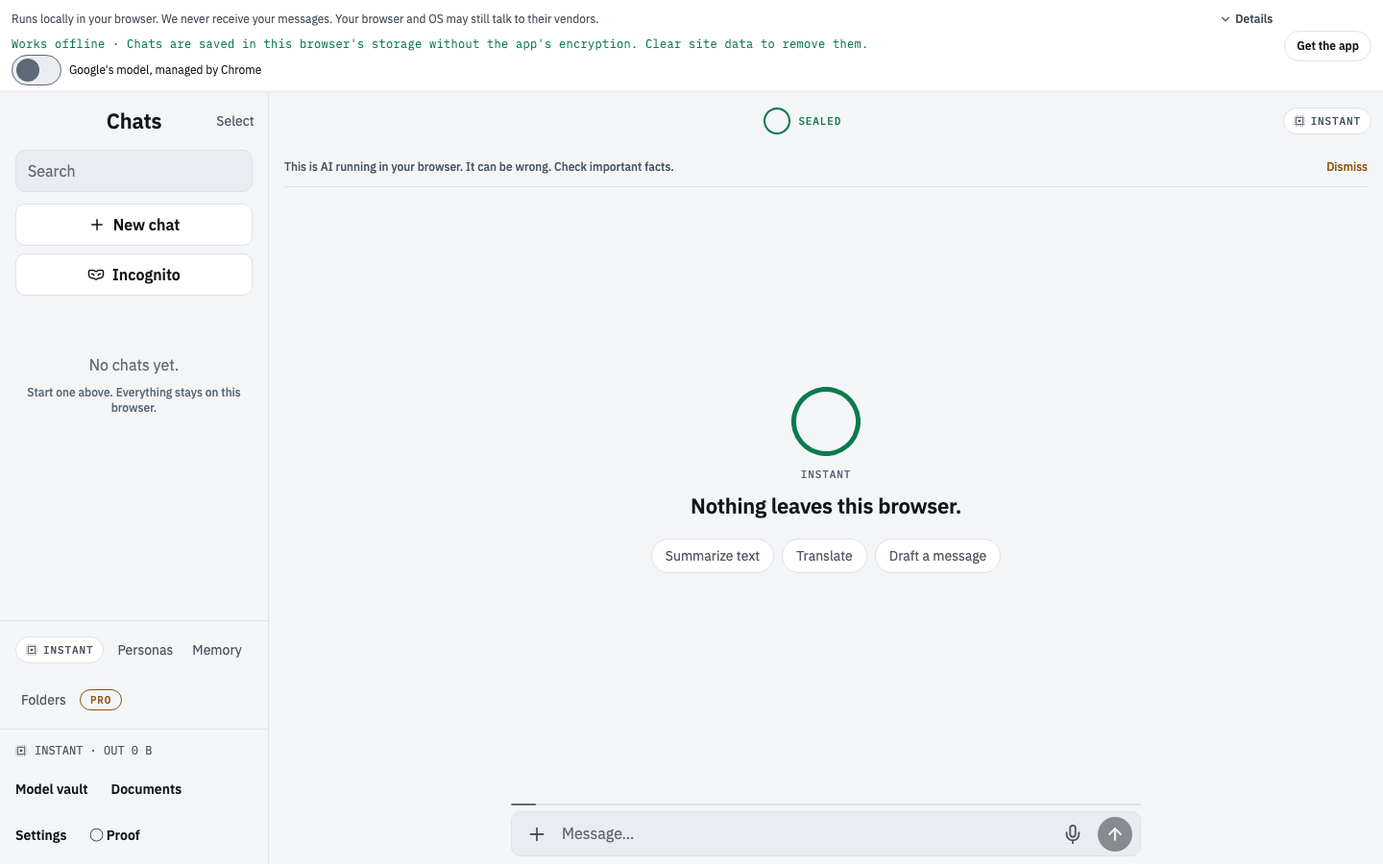
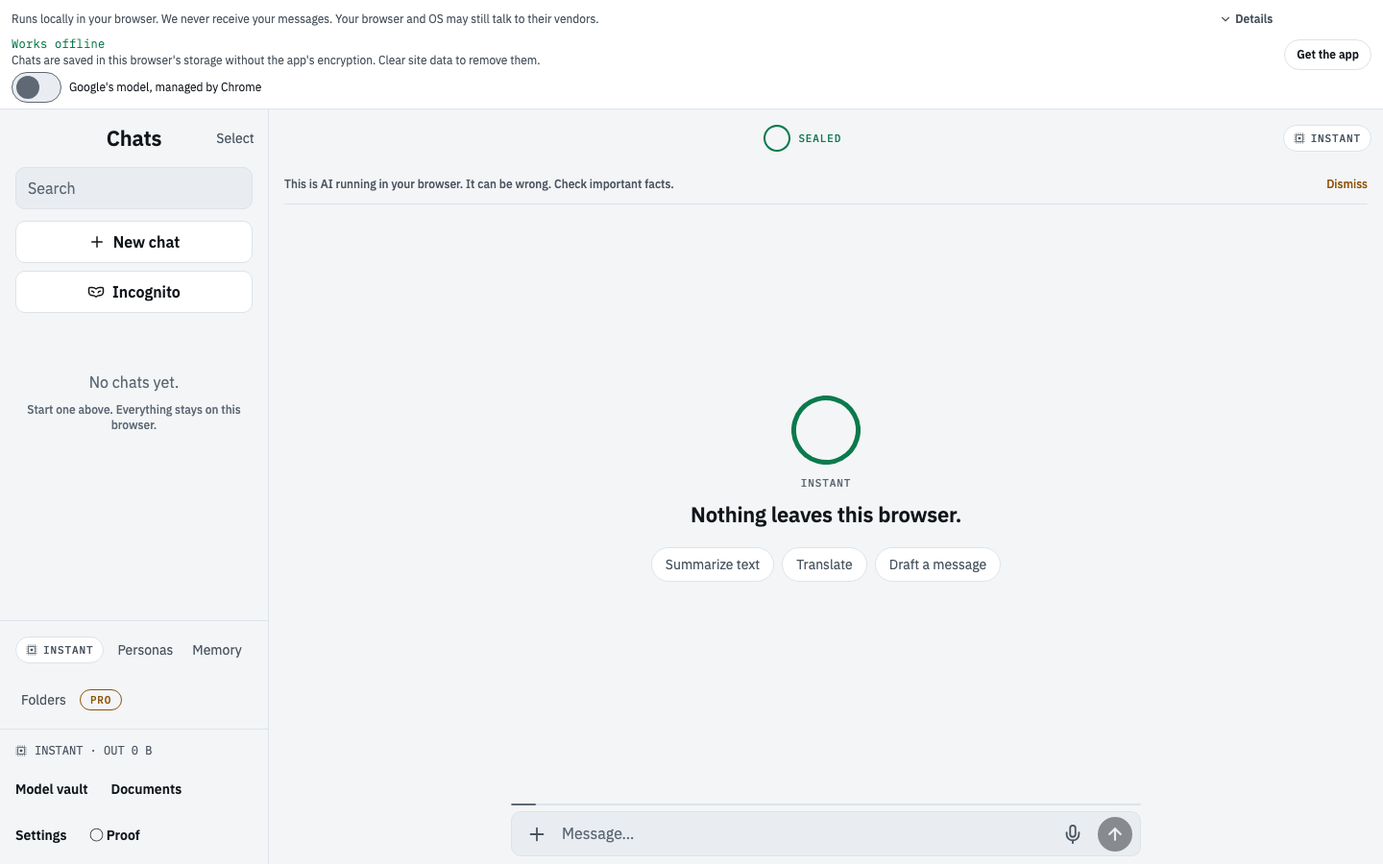
round 50 follow-up: split the strip's sealed mono line, and put the measurements back in the repo (F239)
fix-design read §9.2/§9.3 against the disclosure F226 added and was right: the offline line was one mono Text that
turned theme.sealed when the cache was ready and carried the storage caveat in the same run — a mono paragraph, and
the sealed green standing for something that is not a seal. web-offline-state now keeps the mono and the green for
the state word alone; web-storage-notice is sans body in theme.text2. Two guards, watched failing against the
pre-split source (guard-red-strip-typography.txt).

The measurement files cited by F225, F227 and F234 were .log, and .gitignore line 8 ignores *.log — so they were
never in the repo and went with the first worktree. Regenerated as .txt against the merged build and every citation
repointed. They carry the proof the review's own screenshots could not: at 390 the compare header sits at y 125 with
sticky and y -168 with position forced to static, and at 1440 the table fits the viewport once scrolled, so the
review's 1440 claim rested on a scroll that never took.

Round 48 landed fix-copy's sentence-case string, so item 7 is now whole: the Hebrew line reads "Nothing on this
browser is good at Chat in Hebrew. Closest: INSTANT" and is gone for the chat once dismissed. F225, F227 and the
round write-up say so.

Gates: typecheck 0, lint 0, check:store PASS, 1,367 tests (core 726, mobile 611, ui 13, i18n 17), web:build +
web:smoke PASS, site check 13 pages.

Claude-Session: https://claude.ai/code/session_01FxYNpoNdPEMn53C3TEZdMz

diff --git a/apps/mobile/test/mosheai-r50.test.ts b/apps/mobile/test/mosheai-r50.test.ts
@@ -36,7 +36,19 @@ describe("item 6 · one line before the first word, not five", () => {
     expect(src).toContain("const [open, setOpen] = useState(false);");
   });
   it("the offline line, the storage notice and the engine switch live behind the disclosure", () => {
-    for (const inside of ['testID="web-offline-state"', 't("webStorageNotice")', 'testID="engine-switch"', 't("web.unknownMemory")']) expect(detail, inside).toContain(inside);
+    for (const inside of ['testID="web-offline-state"', 'testID="web-storage-notice"', 't("webStorageNotice")', 'testID="engine-switch"', 't("web.unknownMemory")']) expect(detail, inside).toContain(inside);
+  });
+  /* §9.2/§9.3 (fix-design): mono and the sealed green are for the state word, not for a sentence about storage. */
+  it("sets the storage caveat as body text, and keeps mono and sealed for the state word alone", () => {
+    const offline = detail.slice(detail.indexOf('testID="web-offline-state"'), detail.indexOf('testID="web-storage-notice"'));
+    expect(offline).toContain("styles.mono");
+    expect(offline).toContain("theme.sealed");
+    expect(offline).not.toContain("webStorageNotice");
+    const caveat = detail.slice(detail.indexOf('testID="web-storage-notice"'), detail.indexOf('chromePromptApi'));
+    expect(caveat).toContain("styles.caption");
+    expect(caveat).toContain("theme.text2");
+    expect(caveat).not.toContain("styles.mono");
+    expect(caveat).not.toContain("theme.sealed");
   });
   /* A phone reader must not have to open a disclosure to learn the browser runs Instant only. */
   it("keeps the phone door out in the open", () => {

diff --git a/apps/mobile/src/web/WebShell.tsx b/apps/mobile/src/web/WebShell.tsx
@@ -79,9 +79,11 @@ function Strip({ boot, theme, offline }: { boot: WebBoot; theme: Theme; offline:
         {open ? (
           <View testID="web-strip-detail" style={styles.stripDetail}>
             {boot.gate.ramGB === null && !phone ? <Text style={[styles.caption, { color: theme.text3 }]}>{t("web.unknownMemory")}</Text> : null}
+            {/* §9.2/§9.3: mono and the sealed green belong to the state word alone; the caveat is a sentence, so it is body text. */}
             <Text testID="web-offline-state" style={[styles.mono, { color: offline === "ready" ? theme.sealed : theme.text3 }]}>
               {t(offline === "ready" ? "web.offlineReady" : offline === "installing" ? "web.offlinePreparing" : "web.offlineUnavailable")}
-              {" · "}
+            </Text>
+            <Text testID="web-storage-notice" style={[styles.caption, { color: theme.text2 }]}>
               {t("webStorageNotice")}
             </Text>
             {boot.chromePromptApi ? (

diff --git a/docs/qa/qa-run-2026-09-11.md b/docs/qa/qa-run-2026-09-11.md
@@ -1157,17 +1157,18 @@ to 95 px on a second line. `docs/qa/acceptance/web/a1-onboarding.json`, `a5-ui.j
 | F257 | High (security) | Licence · `apps/mobile/src/licence/devFlags.ts`, `buildKind.ts`, `apps/mobile/app.config.ts` — security review S5 | **A stray environment variable could put sandbox purchases into a store build.** `ALLOW_TEST_PURCHASES` was `EXPO_PUBLIC_ALLOW_TEST_PURCHASES === "1" \|\| __DEV__` and `devBuild()` was `__DEV__ \|\| EXPO_PUBLIC_DEV_MODEL_HOST !== undefined` — neither gated on `__DEV__` (unlike `DEV_TIER` two lines below, which is). Metro inlines every `EXPO_PUBLIC_*` at bundle time, so one leftover `export` in the building shell ships a release bundle that verifies Apple sandbox and `android.test.*` proofs: a free Pro licence for anyone who can produce one. | **Fixed** (round 47b, `fix-tech-b`). The decision moved to `buildKind.ts` and now rests on `extra.devVariant`, which `app.config.ts` bakes from `APP_VARIANT` while the config is evaluated: `allowsTestPurchases = devBundle \|\| (devVariant && flag)` and `isDevBuild = devBundle \|\| (devVariant && devModelHost)`. A store bundle carries `devVariant: false` and no variable set afterwards can change it; an `APP_VARIANT=development` that would flip it also declares the INTERNET permission, which `scripts/check-android-permissions.sh` refuses on a release manifest, so it cannot pass quietly either. `Constants.expoConfig` missing at all reads as "not a dev variant", so the flag fails closed. **The QA harness still works:** the Release device build of `docs/qa/purchases-run-2026-09-11.md` (`APP_VARIANT=development`, `EXPO_PUBLIC_ALLOW_TEST_PURCHASES=1`) is exactly the case that stays allowed. |
 | F258 | Medium (security) | Release · `scripts/check-store-env.sh`, `scripts/dev-switches.txt` | **The gate written to catch exactly that was wired to nothing.** `check-store-env.sh` has refused a store build with any `EXPO_PUBLIC_*` dev switch set since round 9, but `git grep check-store-env` found it only in README and QA prose: `package.json`'s `check:store` runs `docs/store/scripts/check-store-copy.mjs`, a different check, and no build path ever called the script. | **Fixed.** The switch list moved out of the script into `scripts/dev-switches.txt`, and both gates read that one file. The guard runs the real script once per switch on the list and asserts exit 1 with the variable named in the output, plus a clean shell passing — so a switch added to the list is covered the moment it is added, and one removed from the script's reach fails the run. |
 | F259 | Medium (security) | Release · `apps/mobile/app.config.ts` | The same hole from the build side: **nothing refused the build itself**, so a store bundle could be produced with a dev switch inlined into it and nobody would know until the binary was in review. | **Fixed.** `app.config.ts` — the one file every build path evaluates (`expo prebuild`, `expo export`, the Metro step of a release gradle or Xcode build) — throws when a non-development build is configured while any switch on `scripts/dev-switches.txt` is set, naming the offenders. The guard imports the config per case with the environment set, so the throw is the behaviour under test rather than a source string, and asserts the complement: the development variant may carry the switches, and a clean store build gets `extra.devVariant: false`. `pn web:build` runs the config with the refusal in place and is green. |
-| F225 | Medium | S60 paywall (`apps/mobile/src/screens/paywall/CompareTable.tsx`) | **The comparison table lost its column headers as soon as you scrolled.** 18 rows, and `FREE / PRO / WORK` was a plain first row: at 390 the reader reached *Client vaults with passcodes* with three unlabelled tick columns and no way to tell which is which. This is the screen that answers "what am I paying for". | **Fixed** (round 50, branch `fix-mosheai`). The header row is `testID="compare-head"` and carries `STICKY_HEAD` — `position: sticky, top: 0` under `Platform.OS === "web"`, which is the platform whose style engine has it — plus its own `surface1` background so the rows pass under it rather than through it. Measured, not eyeballed: at 390, scrolled to the end of the table, the header sits at the top of the card and *Client vaults* is labelled (`docs/qa/fix-mosheai/after/05-paywall-compare-scrolled-390.png`); with `position` forced back to `static` in the same session the header is gone and the three columns are bare again (`05-paywall-compare-scrolled-nosticky-390.png`), which is the review's own screenshot. Geometry in `docs/qa/fix-mosheai/walk-390.log`. Guard in `apps/mobile/test/mosheai-r50.test.ts`, watched red: `docs/qa/fix-mosheai/guard-red-r50.txt`. |
-| F226 | Medium | Web strip (`apps/mobile/src/web/WebShell.tsx`), `scripts/web-smoke.mjs` | **Five notices stacked above an empty chat before the first word.** At 1440: "Runs locally in your browser…", the mono "Works offline · Chats are saved in this browser's storage…", the "Google's model, managed by Chrome" toggle, "Get the app", then "This is AI running in your browser." Friction and repeated notices get rejected however true each one is. | **Fixed** (round 50). The strip now shows one line — `web.notice` — plus a `Details` disclosure (`web-strip-details`, new key `web.details` in all 8 locales and pseudo) that folds the offline/storage mono line, the unknown-memory line and the Chrome engine switch. Two things deliberately stayed out: the **phone door**, because a phone reader must not open a disclosure to learn the browser runs Instant only, and the **AI-can-be-wrong strip**, which is the one with a Dismiss. Strip height at 1440 fell from 79 px to 44 px (`before/06-17-chat-empty-1440.png` vs `after/06-17-chat-empty-1440.png`); the open state is `after/06-chat-strip-open-1440.png`. `web-smoke` was taught to open the disclosure before reading `web-offline-state` and still passes end to end. |
-| F227 | Medium | `apps/mobile/src/screens/Chat.tsx` | **We stopped blocking Hebrew and went on discouraging it.** Every Hebrew turn drew a permanent all-caps mono line in the chat header — `NOTHING ON THIS BROWSER IS GOOD AT CHAT IN HEBREW · CLOSEST: INSTANT`. The rating behind it is honest (`docs/models/model-fit.md`, 132 generations); the shouting, on every turn, with no way out, was not. | **Fixed** (round 50). The verdict now goes through the **same** machinery as the §7.8 advice card rather than a parallel one: a key `none:<use>:<language>`, `adviceToShow(adviceChat, …)` for once-per-chat memory, and `snoozeAdvice` to put it on the chat row so it survives a relaunch, plus a local key for a chat that has not been saved yet. It renders as an ordinary notice row with a **Dismiss**, in `type.caption` instead of `type.monoLabel`, and the `use` and `language` interpolations are no longer `.toUpperCase()`d. The remaining all-caps is inside the string `models.recommendedNone` itself, which `review-copy` item 20 owns — left to that stream on purpose. Evidence `after/16-07-hebrew-answer-1440.png`, `after/07-hebrew-dismissed-1440.png`, geometry in `hebrew-1440.log`. |
+| F225 | Medium | S60 paywall (`apps/mobile/src/screens/paywall/CompareTable.tsx`) | **The comparison table lost its column headers as soon as you scrolled.** 18 rows, and `FREE / PRO / WORK` was a plain first row: at 390 the reader reached *Client vaults with passcodes* with three unlabelled tick columns and no way to tell which is which. This is the screen that answers "what am I paying for". | **Fixed** (round 50, branch `fix-mosheai`). The header row is `testID="compare-head"` and carries `STICKY_HEAD` — `position: sticky, top: 0` under `Platform.OS === "web"`, which is the platform whose style engine has it — plus its own `surface1` background so the rows pass under it rather than through it. Measured, not eyeballed. At 390, scrolled to the end of the 18 rows, the header is held at **y 125, on screen**, and *Client vaults with passcodes* is labelled; with `position` forced back to `static` in the same session the same header measures **y −168, off screen**, and the three columns are bare again — the review's own screenshot, reproduced on demand (`docs/qa/fix-mosheai/walk-390.txt`, shots `after/05-paywall-compare-scrolled-390.png` and `-nosticky-390.png`). At 1440 the whole table fits the viewport once scrolled, so the header never leaves and the sticky changes nothing there; the review's 1440 claim came from a scroll that did not take (its two "scrolled" shots are byte-identical). `walk-1440.txt`. Guard in `apps/mobile/test/mosheai-r50.test.ts`, watched red: `docs/qa/fix-mosheai/guard-red-r50.txt`. |
+| F226 | Medium | Web strip (`apps/mobile/src/web/WebShell.tsx`), `scripts/web-smoke.mjs` | **Five notices stacked above an empty chat before the first word.** At 1440: "Runs locally in your browser…", the mono "Works offline · Chats are saved in this browser's storage…", the "Google's model, managed by Chrome" toggle, "Get the app", then "This is AI running in your browser." Friction and repeated notices get rejected however true each one is. | **Fixed** (round 50). The strip now shows one line — `web.notice` — plus a `Details` disclosure (`web-strip-details`, new key `web.details` in all 8 locales and pseudo) that folds the offline/storage mono line, the unknown-memory line and the Chrome engine switch. Two things deliberately stayed out: the **phone door**, because a phone reader must not open a disclosure to learn the browser runs Instant only, and the **AI-can-be-wrong strip**, which is the one with a Dismiss. Strip height at 1440 fell from 79 px to 44 px (`before/06-17-chat-empty-1440.png` vs `after/06-17-chat-empty-1440.png`); the open state is `after/06-chat-strip-open-1440.png`. `web-smoke` was taught to open the disclosure before reading `web-offline-state` and still passes end to end. **Second pass, at `fix-design`'s request (§9.2/§9.3):** the offline line was one mono `Text` that turned `theme.sealed` when ready, storage caveat included — a mono paragraph, and the sealed green used for something that is not a seal. It is now two: `web-offline-state` keeps the mono and the sealed colour for the state word alone, and the caveat is `web-storage-notice`, sans body in `theme.text2`. Measured on the built app at both widths: "Works offline" IBMPlexMono in the sealed green `rgb(11, 122, 76)`, the caveat IBMPlexSans in `rgb(74, 85, 96)` (`docs/qa/fix-mosheai/strip-1440.txt`, `strip-390.txt`, shots `after/06-chat-strip-open-*.png`). Guard watched red: `docs/qa/fix-mosheai/guard-red-strip-typography.txt`. |
+| F227 | Medium | `apps/mobile/src/screens/Chat.tsx` | **We stopped blocking Hebrew and went on discouraging it.** Every Hebrew turn drew a permanent all-caps mono line in the chat header — `NOTHING ON THIS BROWSER IS GOOD AT CHAT IN HEBREW · CLOSEST: INSTANT`. The rating behind it is honest (`docs/models/model-fit.md`, 132 generations); the shouting, on every turn, with no way out, was not. | **Fixed** (round 50). The verdict now goes through the **same** machinery as the §7.8 advice card rather than a parallel one: a key `none:<use>:<language>`, `adviceToShow(adviceChat, …)` for once-per-chat memory, and `snoozeAdvice` to put it on the chat row so it survives a relaunch, plus a local key for a chat that has not been saved yet. It renders as an ordinary notice row with a **Dismiss**, in `type.caption` instead of `type.monoLabel`, and the `use` and `language` interpolations are no longer `.toUpperCase()`d. The string's own capitals were `review-copy` item 20 and were left to that stream; round 48 landed them, so after merging `origin/main` the line reads in full sentence case on the built app: **"Nothing on this browser is good at Chat in Hebrew. Closest: INSTANT"** with a Dismiss (`docs/qa/fix-mosheai/hebrew-1440.txt`, `after/16-07-hebrew-answer-1440.png`). Dismissed, it is gone for the chat: the same measurement after the tap reports `none: null` (`after/07-hebrew-dismissed-1440.png`). |
 | F228 | Medium | `packages/i18n/locales/*.json`, `apps/mobile/src/screens/paywall/WebStoreBlock.tsx` | **The app promised Windows and macOS while the site said they are not here yet.** `paywall.noStore` read "Pro is sold in the iOS, Android, Windows and macOS apps" and the web paywall drew a third **Desktop** button, while the site's Get section says "iPhone and Android first. Windows and macOS after them" and offers no desktop download anywhere. Two surfaces of one product contradicting each other on what you can buy. | **Fixed** (round 50). `paywall.noStore` now reads "Pro is sold in the iOS and Android apps. The browser version stays free." in all 8 locales and pseudo; the Desktop button is gone and its dead string `paywall.web.desktop` was deleted from all nine files. Guards: `packages/i18n/test/locales.test.ts` fails if any locale's `paywall.noStore` names a desktop OS or if the button's key comes back, and `apps/mobile/test/premium-entry.test.ts` now asserts the two-store array. Both watched red (`guard-red-r50.txt`). |
 | F229 | Low | `packages/i18n/locales/*.json` | **An HTML file was refused with the word "spreadsheet".** `paywall.why.office` (and its byte-identical twin `paywall.why.officeIngest`) read "You opened a spreadsheet. Pro for Work reads Excel and HTML files." Attach a `.html` and the first sentence is simply false. `docs/qa/acceptance/README.md` found this and left it "to whoever owns the Work copy"; nobody picked it up. | **Fixed** (round 50). Both keys now read "You opened a spreadsheet or a web page. Pro for Work reads Excel and HTML files." in all 8 locales and pseudo. `review-copy` item 19 proposes collapsing the two duplicate keys into one; that is a separate edit and both copies carry the same corrected sentence until it lands. |
 | F230 | Low | `packages/core/src/licence/gates.ts` | **A dead gate that the F42 guard could not see.** `UNBUILT_FEATURES` carried `professionPacks` while the gate the code actually asks is `templates` (`apps/mobile/src/work/hooks.ts`, `TemplatesSheet.tsx`), and the bullet that sells the feature is `paywall.work.packs`. Two keys for one shipped capability — and the "a gate nobody asks is the shape of F42" guard was satisfied by the dead one, so it proved nothing about the live one. | **Fixed** (round 50). `professionPacks` is deleted from `FEATURES` and from `UNBUILT_FEATURES`; `templates` is the single gate, and the comment above `PAYWALL_BULLETS` now says so. A new case in `packages/core/test/licence-gates.test.ts` fails if the duplicate returns to either list. `gates-wired.test.ts` and `licence-compare.test.ts` stay green with one fewer key. |
 | F231 | Low | `packages/core/src/licence/compare.ts`, `screens/paywall/CompareTable.tsx` | **The compare table promised OCR inside a tier that has no OCR.** *Text from scans and photos* shows ✓ for Pro, rendered inside the browser app, where `apps/mobile/src/documents/extract.ts` says in as many words "No OCR in the browser tier yet" and `nativeOcr()` returns `null`. The page does say Pro lives in the app, so it is not a lie; it is the one row a browser reader cannot act on. | **Fixed** (round 50). `COMPARE_APP_ONLY` in core names the rows whose tick the web build cannot honour (today: `ocr`), the row label carries a `†` on web, and a footnote under the table reads "† Text from scans and photos needs the iOS or Android app." (8 locales + pseudo, key `paywall.compare.appOnly`). The list lives in core beside `COMPARE_ROWS`, so a test can check it names real rows, and nothing is hard-coded in the view. Visible at both widths in `after/05-paywall-compare-scrolled-1440.png` and `-390.png`. |
 | F232 | Low | `docs/spec-src/08-screens.html`, `docs/spec-src/13-aso.html`, `docs/inborn-spec.html` | **Rounds 39–41 changed the product and the spec was said to have been skipped.** Checked before fixing: `premium-entry` (b5740e5) and `model-switch` (6dfd94b) **did** touch `docs/spec-src` — S30b, §7.8, §12.3 and S60's pills are already written — so the review's premise held for one round of the three. Round 41 (`site-landing`) shipped the entire website without a spec line, and two real gaps remained: S52 Settings never mentioned the Inborn Pro section round 39 added, and §13.4 still described the old plan (a separate demo origin, a standalone Models page) rather than what `apps/site` ships. | **Fixed** (round 50). S52 gains the Pro entry as its first section (tier badge, per-tier subline, opens S60 with no reason), and §13.4 is rewritten against `build.mjs` / `check.mjs` / `_headers`: the hero composer's `?q=` handoff, the enforced `script-src 'none'`, the six structured-data types, the canonical split, the crawler list, sitemap and `llms.txt`, the legal-texts-from-site mechanism and the public repo link. `python3 docs/build.py` rebuilt `docs/inborn-spec.html`; log and greps in `docs/qa/fix-mosheai/spec/`. |
 | F233 | Low | `docs/models/model-fit.md`, `packages/core/src/catalog/manifest.json`, `packages/core/test/*` | **Fast's Arabic rating was the least certain number in the map and was sold as `native`.** `ar` was upgraded to `native` on a single 2/2/3 run whose prose scored 2, and the doc itself writes that this tier is the least certain in the map. Every other `native` has more behind it, and an Arabic speaker reads `native` on the model card. | **Fixed** (round 50). `fit.languages.ar` for `fast` is `good` in `manifest.json` and in `model-fit.md`, and the catalog is re-signed (`node scripts/sign-catalog.mjs --check` → "manifest signature OK", manifest v4). The downgrade moved three recommendations, all of them checked and all of them right: Arabic **code** now recommends Sharp rather than Fast (both are `good` at Arabic, so the use breaks the tie and Sharp is `good` at code where Fast is `weak`); a Phi user **writing** Arabic is now sent to Sharp for the same reason; and the Instant→Fast card now says `basic → good` instead of `basic → native`. `catalog-fit.test.ts` and `catalog-recommend.test.ts` updated to those values with the reason on the line. |
-| F234 | Low | `apps/mobile/src/components/chat/AssistantMessage.tsx`, `Ledger.tsx` | **The Hebrew answer block was not mirrored.** The body right-aligned with its own direction, but `INSTANT · ON-DEVICE AI` and the `LEDGER` disclosure stayed hard left, roughly 600 px away from the text they belong to. | **Fixed** (round 50). `AssistantMessage` derives one flag from the direction it already computes (`const rtl = dir === "rtl"`) and mirrors the label, the reasoning disclosure and its quote rail, the error and family-safe lines and the stopped/loop row; it passes `rtl` to `Ledger`, which mirrors its own toggle and every receipt row. Only labels move: the Markdown body and the quote rail keep the full column, so nothing re-wraps. Evidence `after/16-07-hebrew-answer-1440.png` against `before/16-hebrew-answer-1440.png`, geometry in `hebrew-1440.log`. |
+| F234 | Low | `apps/mobile/src/components/chat/AssistantMessage.tsx`, `Ledger.tsx` | **The Hebrew answer block was not mirrored.** The body right-aligned with its own direction, but `INSTANT · ON-DEVICE AI` and the `LEDGER` disclosure stayed hard left, roughly 600 px away from the text they belong to. | **Fixed** (round 50). `AssistantMessage` derives one flag from the direction it already computes (`const rtl = dir === "rtl"`) and mirrors the label, the reasoning disclosure and its quote rail, the error and family-safe lines and the stopped/loop row; it passes `rtl` to `Ledger`, which mirrors its own toggle and every receipt row. Only labels move: the Markdown body and the quote rail keep the full column, so nothing re-wraps. Evidence `after/16-07-hebrew-answer-1440.png` against `before/16-hebrew-answer-1440.png`, geometry in `hebrew-1440.txt`. |
 | F235 | Low | `apps/mobile/src/screens/Chat.tsx`, `screens/Work/AuditLog.tsx` | **Desktop height was still phone rhythm on the low-traffic screens.** An empty chat at 1440 put the seal and "Nothing leaves this browser." in the bottom third with ~380 px of nothing above, because the list hugs the bottom so a conversation can grow upward — correct with messages, wrong with none. `/work/audit` at 1440 was one small card pinned to the top of a 900 px window, and with no vault yet it printed `CHOOSE A VAULT` over nothing, which reads as a dead label rather than a choice. | **Fixed** (round 50). The chat list adds `styles.listEmpty` (`justifyContent: center`) only while `rows.length` is 0; the seal moved from y≈630 to y≈414 at 1440 (`before/` vs `after/06-17-chat-empty-1440.png`). `AuditLog` passes `card={!picked}` to `Screen`, reusing the centred-card mechanism §8.9 already has, and renders the picker only when there is something to pick (`after/17-work-audit-1440.png` against `before/17-work-audit-1440.png`). |
 | F236 | Low | `apps/site/src/pages/index.html`, `proof.html`, `site.css` | **The site's proof strip was decoration.** `OUT 0 B · CONNECTIONS 0 · SEALED · ON-DEVICE` is static HTML on a page `check.mjs` certifies has **no scripts**, while `docs/qa/acceptance/README.md` called it "a live … strip". On a product whose pitch is "proof, not promise", a readout that looks live and is not is the first thing a hostile reviewer screenshots. | **Fixed** (round 50). Both pages carry the same readout under a caption — "What the app's own Proof screen shows on your device — a picture, not a live reading of this page." — and the `aria-label` says the same. No script was added; `pnpm --filter @inborn/site check` still reports "12 pages: no scripts, no external assets, no dead links, CSP present". Before/after at 390 and 1440 in `docs/qa/fix-mosheai/site/`. |
 | F237 | Low | `apps/site/build.mjs`, `apps/site/check.mjs`, `packages/core/src/site/origins.json` | **The site's default canonical host was the staging host.** Every `rel=canonical`, `og:url`, sitemap `<loc>` and the robots `Sitemap:` line built without `SITE_ORIGIN` read `https://inborn-site.pages.dev`. Production is correct because the deploy sets `SITE_ORIGIN`, so this was one forgotten variable away from shipping the staging host to search engines. **The review's framing is half wrong and worth recording:** `apps/site/dist` is **not** committed — it is in `.gitignore` and `git log --all -- apps/site/dist` is empty — so "stop committing dist" was already true and the risk was only the default. | **Fixed, and then superseded on the way in.** This branch changed the literal default in `build.mjs` and `check.mjs` to `https://inbornapp.com`: a default build went from 261 occurrences of the staging host to **0** and 313 of `inbornapp.com`, every canonical/og:url/sitemap/robots line included (`docs/qa/fix-mosheai/site/item20-before.txt`, `item20-after.txt`). Merging `origin/main` brought round 46's better answer to the same problem — `packages/core/src/site/origins.json`, one file the build, the check and the deploy all read, whose `site` is already `https://inbornapp.com` — so **main's mechanism is what shipped** and the literals were dropped. The finding is closed either way; recorded so nobody re-adds a second default. |
 | F238 | **High** | 44 tracked files under `docs/qa/`, `packages/core/test/no-device-ids.test.ts` | **A public repo carried Moshe's personal device identifiers and an App Store Connect key id.** `moshecohen90/inborn` is public. Tracked files held the iPhone 13 Pro UDID in 16 places, the OnePlus 6T adb serial in 41 and `AuthKey_<asc-key-id>` in 8. A UDID is a personal-device identifier and the key id is a free hint for anyone probing our ASC account. | **Fixed at HEAD** (round 50); the history is **not** rewritten and cannot be undone, but it stops growing. All three are replaced by `<iphone-udid>`, `<6t-serial>` and `<asc-key-id>` across `docs/qa/` and `README.md`; no tracked script contained one, so nothing executable changed. The guard is `packages/core/test/no-device-ids.test.ts`: it walks `git ls-files`, skips binaries and files over 2 MB, and fails on any of the three literals, which it assembles from fragments so it does not trip itself. Watched red by writing the raw UDID into a tracked doc: `docs/qa/fix-mosheai/guard-red-device-ids.txt`. |
+| F239 | Low | `apps/mobile/src/web/WebShell.tsx`, `apps/mobile/test/mosheai-r50.test.ts` | **The browser strip broke the type rules the strip itself was meant to serve.** Inside the disclosure F226 added, the offline line was one mono `Text` that turned `theme.sealed` when the cache was ready and carried the storage caveat in the same run: a mono paragraph (§9.2) and the sealed green used for something that is not a seal (§9.3). Raised by `fix-design`. Split in two: `web-offline-state` keeps the mono and the green for the state word alone, `web-storage-notice` is sans body in `theme.text2`. Measured on the built app with the disclosure open at both widths — "Works offline" `IBMPlexMono rgb(11, 122, 76)`, the caveat `IBMPlexSans rgb(74, 85, 96)` (`docs/qa/fix-mosheai/strip-390.txt`, `strip-1440.txt`, shots `after/06-chat-strip-open-390.png` and `-1440.png`). Two guards, both watched failing against the pre-split source (`guard-red-strip-typography.txt`). | Fixed |

diff --git a/README.md b/README.md
@@ -4188,22 +4188,28 @@ there is one branch to land rather than two that touch the same files.
 The 24.9 MosheAI pass raised 20 items. Three of them belong to other streams (the dead call to action on the live
 site and the four dead buy buttons to `cf-token`; the Work tier on hardware and the iPhone use-pass to
 `work-tier-6t` and `ios-qa-bridge`), and item 14 — F161's residual sentence — was not assigned. This round is the
-other fourteen: **F225–F238** in `docs/qa/qa-run-2026-09-11.md`, evidence in `docs/qa/fix-mosheai/`.
+other fourteen: **F225–F239** in `docs/qa/qa-run-2026-09-11.md`, evidence in `docs/qa/fix-mosheai/`.
 
 - **The paywall's comparison table kept its headers (F225).** 18 rows and `FREE / PRO / WORK` was a plain first row,
   so at 390 you reached *Client vaults with passcodes* and three unlabelled tick columns. The header row is sticky
   inside the card on the platform whose style engine has sticky, with its own background so rows pass under it. The
-  complement is what makes this a proof rather than a claim: in the same session, `position` forced back to `static`
-  puts the columns back to bare (`after/05-paywall-compare-scrolled-nosticky-390.png`). On native phones the header
+  complement is what makes this a proof rather than a claim: at 390 the header measures y 125 on screen with sticky
+  and y −168 off screen with `position` forced back to `static` in the same session. At 1440 the table fits the
+  viewport once scrolled, so the sticky changes nothing there and the review's 1440 claim rested on a scroll that
+  never took — its two "scrolled" shots are byte-identical. On native phones the header
   still scrolls — React Native has no `sticky` outside a `ScrollView`'s own `stickyHeaderIndices`, and the paywall's
   children are conditional, so pinning an index there is a separate change. Said plainly rather than implied.
 - **Five notices before the first word became one (F226).** The strip keeps `web.notice` and folds the offline and
   storage line, the unknown-memory line and the Chrome engine switch behind a `Details` disclosure. The phone door
   stayed out — a phone reader must not open a disclosure to learn the browser runs Instant only — and so did the
-  AI-can-be-wrong strip, which is the one with a Dismiss. 79 px of chrome became 44.
+  AI-can-be-wrong strip, which is the one with a Dismiss. 79 px of chrome became 44. A second pass at `fix-design`'s
+  request splits the offline line: §9.2/§9.3 give mono and the sealed green to the state word, so the storage caveat
+  is sans body in `theme.text2` rather than a mono paragraph wearing the seal colour.
 - **Hebrew: we stopped discouraging it too (F227).** The permanent all-caps verdict on every Hebrew turn now runs
   through the **same** once-per-chat memory and chat-row snooze the §7.8 advice card uses, with a Dismiss and in
-  sentence type. The string's own capitals belong to `review-copy` item 20 and were left for that stream.
+  sentence type. The string's own capitals were `review-copy` item 20 and were left for that stream; round 48 landed
+  them, so on the merged build the line reads "Nothing on this browser is good at Chat in Hebrew. Closest: INSTANT"
+  and disappears for the chat when dismissed.
 - **Two surfaces stopped contradicting each other about what you can buy (F228).** The app sold Pro "in the iOS,
   Android, Windows and macOS apps" while the site says Windows and macOS come after them. Eight locales and pseudo
   now name the two stores that exist, and the Desktop button and its string are gone.
@@ -4228,9 +4234,17 @@ other fourteen: **F225–F238** in `docs/qa/qa-run-2026-09-11.md`, evidence in `
   fails on any of the three, and it caught its first real hit immediately: the key id inside the F238 row itself.
 
 Every behaviour fix carries a guard that was watched failing with the fix reverted
-(`docs/qa/fix-mosheai/guard-red-r50.txt`, 11 red; `guard-red-device-ids.txt` for the identifier scan).
+(`docs/qa/fix-mosheai/guard-red-r50.txt`, 11 red; `guard-red-device-ids.txt` for the identifier scan;
+`guard-red-strip-typography.txt` for the two §9.2/§9.3 cases below).
 
-Gates after merging `origin/main` (rounds 46–49): `pn typecheck` 0, `pn lint` 0, `pn check:store` PASS,
-**1,356 tests** (core 726, mobile 600, ui 13, i18n 17), `pn web:build` + `pn web:smoke` PASS — the smoke now opens
+One follow-up landed after the merge, at `fix-design`'s reading of the spec: the strip's offline line was a single
+mono `Text` that turned `theme.sealed` when ready **and** carried the storage caveat inside it, which is a mono
+paragraph (§9.2) and the sealed green standing for something that is not a seal (§9.3). Split: `web-offline-state`
+keeps the mono and the green for the state word alone, `web-storage-notice` is sans body in `theme.text2`. Measured
+open at both widths — "Works offline" `IBMPlexMono rgb(11, 122, 76)`, the caveat `IBMPlexSans rgb(74, 85, 96)`
+(`docs/qa/fix-mosheai/strip-390.txt`, `strip-1440.txt`).
+
+Gates after merging `origin/main` (rounds 46–49, 47b, 51) and that follow-up: `pn typecheck` 0, `pn lint` 0, `pn check:store` PASS,
+**1,367 tests** (core 726, mobile 611, ui 13, i18n 17), `pn web:build` + `pn web:smoke` PASS — the smoke now opens
 the strip's disclosure before reading the offline state — and `pnpm --filter @inborn/site check` "13 pages: no
 scripts, no external assets, no dead links, CSP present".

diff --git a/docs/qa/fix-mosheai/README.md b/docs/qa/fix-mosheai/README.md
@@ -1,11 +1,12 @@
 # fix-mosheai — round 50 evidence (24.9.2026)
 
-Answers the MosheAI review of 24.9. Findings **F225–F238** in `docs/qa/qa-run-2026-09-11.md`; the round write-up is
+Answers the MosheAI review of 24.9. Findings **F225–F239** in `docs/qa/qa-run-2026-09-11.md`; the round write-up is
 `README.md` → "Fixes round 50".
 
 ## How these were taken
 
-`apps/web/dist` built from this branch, served by `node scripts/serve-web.mjs` on port **8933**
+`apps/web/dist` built from this branch, served by `node scripts/serve-web.mjs` on a free local port (**8933**, and
+**8934** for the re-run that produced the `.txt` measurements after the merge)
 (`MODELS_DIR=/Users/moshecohen/dev/inborn/.models`), driven headless with playwright-core on
 `chrome-headless-shell`, viewport height 900, light scheme. The server was killed by its own PID when the pass ended.
 
@@ -29,13 +30,19 @@ here unchanged so the pair is comparable. Their original names are in brackets.
 
 ## Measurements
 
-`walk-1440.log`, `walk-390.log` — the compare header's computed `position` and the viewport y of the header, the
+`walk-1440.txt`, `walk-390.txt` — the compare header's computed `position` and the viewport y of the header, the
 *Client vaults* row and the footnote, before the scroll, after it, and after `position` is forced to `static`.
-`hebrew-1440.log` — the answer block's box against the x of `INSTANT · ON-DEVICE AI`, `LEDGER` and the notice, before
+`hebrew-1440.txt` — the answer block's box against the x of `INSTANT · ON-DEVICE AI`, `LEDGER` and the notice, before
 and after Dismiss.
+`strip-1440.txt`, `strip-390.txt` — the computed font family and colour of the strip's state word and of the storage
+caveat, after the §9.2/§9.3 split.
+
+Measurement files are `.txt`, not `.log`: `.gitignore` line 8 ignores `*.log`, so a cited `.log` would not be in the
+repo at all.
 
 ## Guards watched failing
 
 `guard-red-r50.txt` — the app fixes reverted with `git checkout --` and the suites re-run: **11 failures**
 (`apps/mobile/test/mosheai-r50.test.ts` and the two-store case in `premium-entry.test.ts`), then restored and green.
 `guard-red-device-ids.txt` — the iPhone UDID written back into a tracked doc, `no-device-ids.test.ts` red on it.
+`guard-red-strip-typography.txt` — the strip's offline line put back as one sealed mono paragraph: **2 red**.
